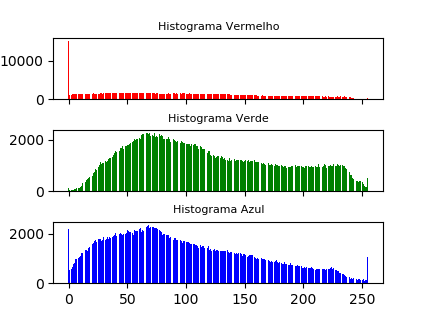
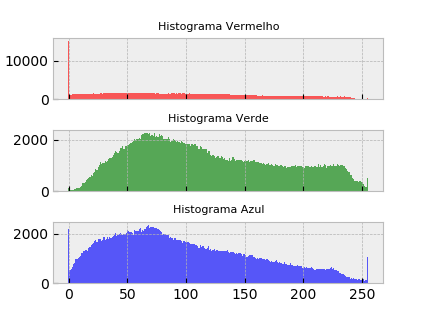
Udates histogram style

diff --git a/src/image_processing/data.py b/src/image_processing/data.py
@@ -14,11 +14,7 @@ def histograma_bandas(img):
             r_hist[img[linha, coluna, 0]] += 1
             g_hist[img[linha, coluna, 1]] += 1
             b_hist[img[linha, coluna, 2]] += 1
-    return normalize(r_hist), normalize(g_hist), normalize(b_hist)
-
-
-def normalize(values):
-    return values
+    return r_hist, g_hist, b_hist
 
 
 def histogram(img, filename):
@@ -26,14 +22,15 @@ def histogram(img, filename):
     os subplots de histogramas para cada
     banda
     """
+    plt.style.use('bmh')
     r_hist, g_hist, b_hist = histograma_bandas(img)
     fig, axarr = plt.subplots(3, sharex=True, figsize=(4.26, 3.18))
     plt.subplots_adjust(hspace=.5)
     x = list(range(256))
-    axarr[0].bar(x, height=r_hist, color='red')
+    axarr[0].bar(x, height=r_hist, color='red', alpha=.64, width=1)
     axarr[0].set_title('Histograma Vermelho', fontsize=8)
-    axarr[1].bar(x, height=g_hist, color='green')
+    axarr[1].bar(x, height=g_hist, color='green', alpha=.64, width=1)
     axarr[1].set_title('Histograma Verde', fontsize=8)
-    axarr[2].bar(x, height=b_hist, color='blue')
+    axarr[2].bar(x, height=b_hist, color='blue', alpha=.64, width=1)
     axarr[2].set_title('Histograma Azul', fontsize=8)
     plt.savefig(filename)
